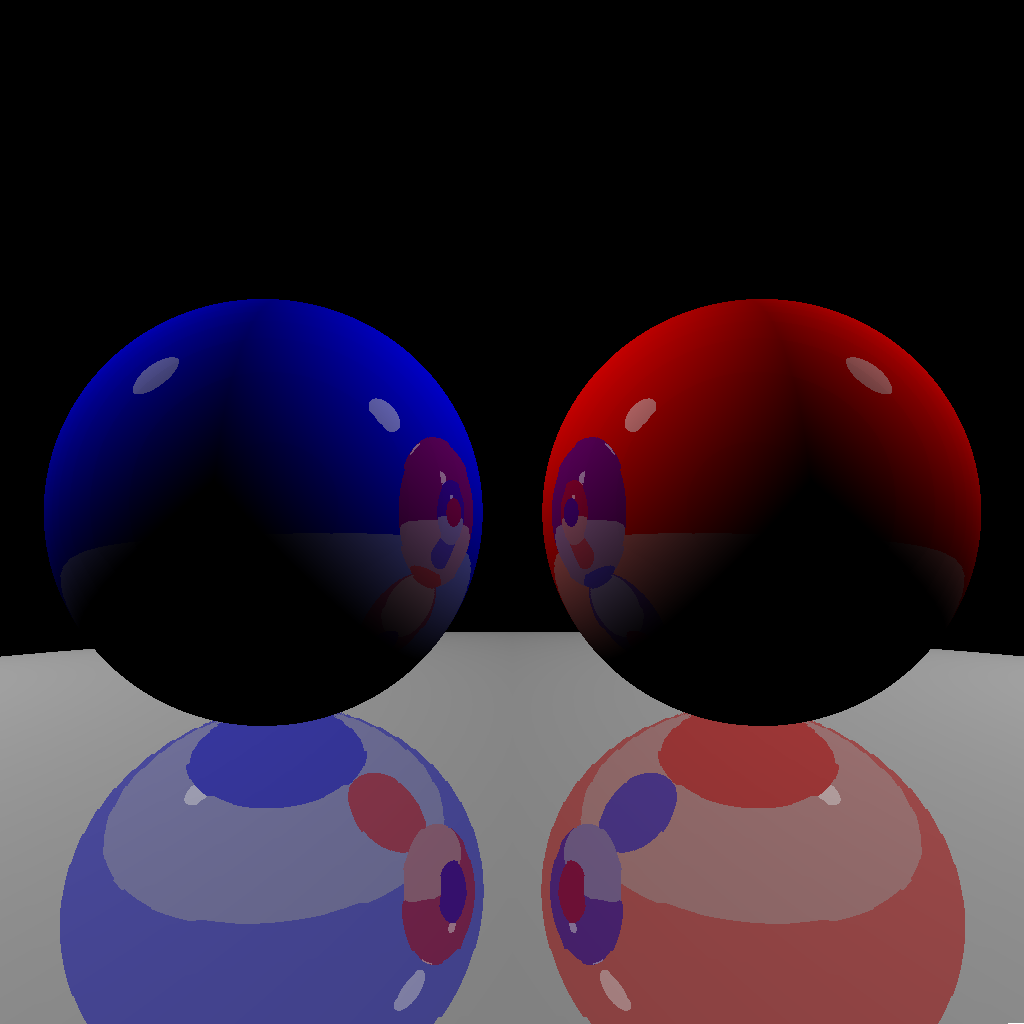
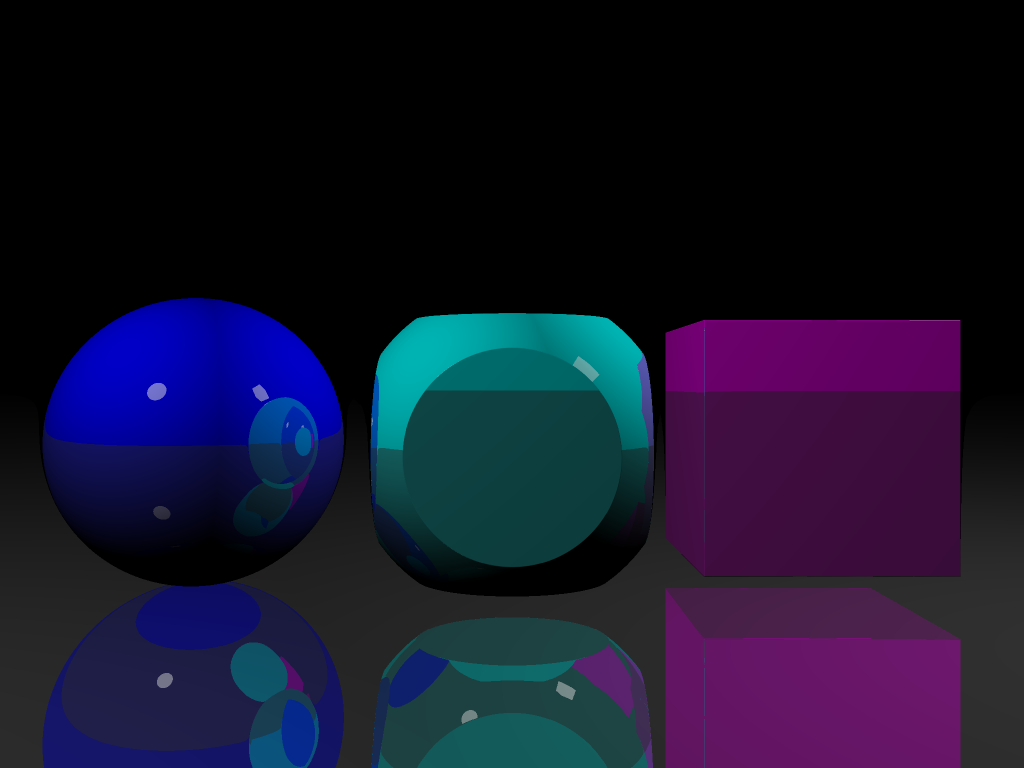
add plane

diff --git a/basicObjects.cpp b/basicObjects.cpp
@@ -113,16 +113,14 @@ void Object::AttachExternalColorBuffer(Vec3uc *buffer)
 	pColor=buffer;
 }
 
-double Object::GetDistance(Vec3d from)
+double Object::GetDistance(Vec3d from) const
 {
 	from=from-*Position;
 	return(from.Length());
 }
 
-/**
- * Using the gradient of the SDF, estimate the normal vector on the surface at given point
- */
-Vec3d Object::GetNormalVector(Vec3d point)
+// Using the gradient of the SDF, estimate the normal vector on the surface at given point
+Vec3d Object::GetNormalVector(Vec3d point) const
 {
 	Vec3d normalV(
 			GetDistance(Vec3d(point.X + RAY_COLLISION_THRESHOLD, point.Y, point.Z)) - GetDistance(Vec3d(point.X - RAY_COLLISION_THRESHOLD, point.Y, point.Z)),
@@ -132,7 +130,7 @@ Vec3d Object::GetNormalVector(Vec3d point)
 	return(normalV);
 }
 
-Vec3d Object::GetNormalVector(Vec3d *point)
+Vec3d Object::GetNormalVector(Vec3d *point) const
 {
 	Vec3d normalV(
 			GetDistance(Vec3d(point->X + RAY_COLLISION_THRESHOLD, point->Y, point->Z)) - GetDistance(Vec3d(point->X - RAY_COLLISION_THRESHOLD, point->Y, point->Z)),
@@ -162,15 +160,14 @@ Difference::Difference(Object *object_a, Object *object_b)
 	{
 		return;
 	}
-	Vec3f NewColor=(ObjectA->Color()+ObjectB->Color())/2.0;
-	SetColor(NewColor);
+	SetColor((ObjectA->Color()+ObjectB->Color())/2.0);
 }
 
-double Difference::GetDistance(Vec3d from)
+double Difference::GetDistance(Vec3d from) const
 {
 	double DistA=ObjectA->GetDistance(from);
 	double DistB=0.0-ObjectB->GetDistance(from);
-	return std::max(DistA, DistB);
+	return max(DistA, DistB);
 }
 
 Union::Union(Object *object_a, Object *object_b)
@@ -186,15 +183,14 @@ Union::Union(Object *object_a, Object *object_b)
 	{
 		return;
 	}
-	Vec3f NewColor=(ObjectA->Color()+ObjectB->Color())/2.0;
-	SetColor(NewColor);
+	SetColor((ObjectA->Color()+ObjectB->Color())/2.0);
 }
 
-double Union::GetDistance(Vec3d from)
+double Union::GetDistance(Vec3d from) const
 {
 	double DistA=ObjectA->GetDistance(from);
 	double DistB=ObjectB->GetDistance(from);
-	return std::min(DistA, DistB);
+	return min(DistA, DistB);
 }
 
 Intersection::Intersection(Object *object_a, Object *object_b)
@@ -210,15 +206,14 @@ Intersection::Intersection(Object *object_a, Object *object_b)
 	{
 		return;
 	}
-	Vec3f NewColor=(ObjectA->Color()+ObjectB->Color())/2.0;
-	SetColor(NewColor);
+	SetColor((ObjectA->Color()+ObjectB->Color())/2.0);
 }
 
-double Intersection::GetDistance(Vec3d from)
+double Intersection::GetDistance(Vec3d from) const
 {
 	double DistA=ObjectA->GetDistance(from);
 	double DistB=ObjectB->GetDistance(from);
-	return std::max(DistA, DistB);
+	return max(DistA, DistB);
 }
 
 // ========= RAY ===
@@ -395,9 +390,9 @@ void Sphere::SetRadius(double radius)
 	pRadius=radius;
 }
 
-double Sphere::GetDistance(Vec3d from)
+double Sphere::GetDistance(Vec3d from) const
 {
-	from=from-Position;
+	from=from-*Position;
 	return(from.Length()-pRadius);
 }
 
@@ -414,9 +409,9 @@ void Cube::SetLength(double length)
 	pLength=length;
 }
 
-double Cube::GetDistance(Vec3d from)
+double Cube::GetDistance(Vec3d from) const
 {
-	from=from-Position;
+	from=from-*Position;
 	Vec3d d=from.Abs() - Vec3d(pLength, pLength, pLength);
 	return d.Max(Vec3d(0, 0, 0)).Length() + min(max(d.X, max(d.Y, d.Z)), 0.0);
 }
@@ -440,9 +435,27 @@ void Torus::SetRadius2(double radius)
 	pRadius2=radius;
 }
 
-double Torus::GetDistance(Vec3d from)
+double Torus::GetDistance(Vec3d from) const
 {
-	from=from-Position;
+	from=from-*Position;
 	Vec2d d=Vec2d(Vec2d(from.X, from.Z).Length()-pRadius1, from.Y);
 	return(d.Length()-pRadius2);
+}
+
+Plane::Plane()
+{
+	pOrientation=Vec3d(0, -1, 0);
+	SetName("Plane");
+}
+
+void Plane::SetOrientation(Vec3d orientation)
+{
+	pOrientation=orientation;
+	pOrientation.Normalize();
+}
+
+double Plane::GetDistance(Vec3d from) const
+{
+	from=from-*Position;
+	return(from*pOrientation);
 }

diff --git a/main.cpp b/main.cpp
@@ -20,68 +20,69 @@ int main(int argc, char *argv[])
 
 	Sphere *NewSphere1=new Sphere();
 	NewSphere1->SetName("Small sphere 1");
-	NewSphere1->SetRadius(10);
+	NewSphere1->SetRadius(25);
 	NewSphere1->SetReflectivity(0.5);
-	NewSphere1->SetPosition(12, 0, 50);
+	NewSphere1->SetPosition(0, 10, 160);
 	NewSphere1->SetColor(200, 0, 0);
 
-	// Sphere *NewSphere2=new Sphere();
-	// NewSphere2->SetName("Small sphere 2");
-	// NewSphere2->SetRadius(10);
-	// NewSphere2->SetReflectivity(0.5);
-	// NewSphere2->SetPosition(-12, 0, 50);
-	// NewSphere2->SetColor(0, 0, 200);
+	Sphere *NewSphere2=new Sphere();
+	NewSphere2->SetName("Small sphere 2");
+	NewSphere2->SetRadius(25);
+	NewSphere2->SetReflectivity(0.5);
+	NewSphere2->SetPosition(-55, 10, 180);
+	NewSphere2->SetColor(0, 0, 200);
 
-	Cube *NewCube=new Cube();
-	NewCube->SetName("Cube");
-	NewCube->SetLength(8);
-	NewCube->SetReflectivity(0.5);
-	NewCube->SetPosition(-12, 0, 50);
-	NewCube->SetColor(0, 200, 200);
+	Cube *NewCube1=new Cube();
+	NewCube1->SetName("Cube 1");
+	NewCube1->SetLength(20);
+	NewCube1->SetReflectivity(0.5);
+	NewCube1->SetPosition(0, 10, 160);
+	NewCube1->SetColor(0, 180, 180);
 
-	Sphere *NewSphere3=new Sphere();
-	NewSphere3->SetName("Big sphere");
-	NewSphere3->SetRadius(700);
-	NewSphere3->SetReflectivity(0.5);
-	NewSphere3->SetPosition(0, 712, 50);
-	NewSphere3->SetColor(180, 180, 180);
+	Cube *NewCube2=new Cube();
+	NewCube2->SetName("Cube 2");
+	NewCube2->SetLength(20);
+	NewCube2->SetReflectivity(0.5);
+	NewCube2->SetPosition(50, 10, 180);
+	NewCube2->SetColor(180, 0, 180);
+
+	// Torus *NewTorus1=new Torus();
+	// NewTorus1->SetName("Torus 1");
+	// NewTorus1->SetPosition(0, 20, 120);
+	// NewTorus1->SetRadius1(40);
+	// NewTorus1->SetRadius2(10);
+	// NewTorus1->SetColor(180, 200, 80);
 
 	Sphere *NewLightSource1=new Sphere();
 	NewLightSource1->SetName("Spherical light source");
 	NewLightSource1->SetRadius(20);
-	NewLightSource1->SetPosition(-100, -100, 50);
+	NewLightSource1->SetPosition(-100, -100, 40);
 	NewLightSource1->SetBrightness(100);
 	NewLightSource1->SetColor(255, 255, 255);
 
 	Cube *NewLightSource2=new Cube();
 	NewLightSource2->SetName("Cubical light source");
 	NewLightSource2->SetLength(13);
-	NewLightSource2->SetPosition(100, -100, 0);
+	NewLightSource2->SetPosition(100, -100, 120);
 	NewLightSource2->SetBrightness(100);
 	NewLightSource2->SetColor(255, 255, 255);
 
-	// Intersection *ShpereIntersection=new Intersection(NewSphere1, NewSphere2);
+	Intersection *ShpereCubeIntersection=new Intersection(NewSphere1, NewCube1);
+	ShpereCubeIntersection->SetColor(0, 180, 180);
 
-	// NewScene->AddObject(ShpereIntersection);
-	NewScene->AddObject(NewSphere1);
-	// NewScene->AddObject(NewSphere2);
-	NewScene->AddObject(NewCube);
-	NewScene->AddObject(NewSphere3);
+	Plane *NewPlane=new Plane();
+	NewPlane->SetPosition(0, 35, 0);
+	NewPlane->SetColor(50, 50, 50);
+
+	NewScene->AddObject(ShpereCubeIntersection);
+	// NewScene->AddObject(NewSphere1);
+	NewScene->AddObject(NewSphere2);
+	// NewScene->AddObject(NewCube1);
+	NewScene->AddObject(NewCube2);
+	// NewScene->AddObject(NewTorus1);
 	NewScene->AddObject(NewLightSource1);
 	NewScene->AddObject(NewLightSource2);
-
-//	Cube *newCube1=new Cube();
-//	newCube1->SetPosition(-30, 30, 120);
-//	newCube1->SetLength(15);
-//	newCube1->SetColor(100, 200, 100);
-//	MainScene->AddObject(newCube1);
-
-//	Torus *newTorus1=new Torus();
-//	newTorus1->SetPosition(0, 30, 140);
-//	newTorus1->SetRadius1(40);
-//	newTorus1->SetRadius2(10);
-//	newTorus1->SetColor(180, 200, 80);
-//	MainScene->AddObject(newTorus1);
+	NewScene->AddObject(NewPlane);
 
 //	Object *testObj=new Object;
 //	testObj->SetPosition(100, 0, 50);

diff --git a/basicObjects.hpp b/basicObjects.hpp
@@ -7,7 +7,7 @@
 
 #define RAY_STEPS_MAX			1024
 #define RAY_COLLISIONS_MAX		4
-#define RAY_COLLISION_THRESHOLD	0.25
+#define RAY_COLLISION_THRESHOLD	1.0F/16.0F
 
 #define DEFAULT_OBJECT_COLOR	0x00,0x00,0x00
 #define DEFAULT_OBJECT_NAME		"Object"
@@ -43,23 +43,21 @@ public:
 	void SetName(string name);
 
 	void AttachExternalColorBuffer(Vec3uc *buffer);
-	virtual double GetDistance(Vec3d from);
-	Vec3d GetNormalVector(Vec3d point);
-	Vec3d GetNormalVector(Vec3d *point);
+	virtual double GetDistance(Vec3d from) const;
+	Vec3d GetNormalVector(Vec3d point) const;
+	Vec3d GetNormalVector(Vec3d *point) const;
 	bool ItsALightSource();
 
 	vector <Object *> *SceneObjects, *SceneLights;
 	Vec3d *Position;
 };
 
-// ========= CSG ===
-
 class Difference : public Object
 {
 	Object *ObjectA, *ObjectB;
 public:
 	Difference(Object *object_a, Object *object_b);
-	double GetDistance(Vec3d from);
+	double GetDistance(Vec3d from) const;
 };
 
 class Union : public Object
@@ -67,7 +65,7 @@ class Union : public Object
 	Object *ObjectA, *ObjectB;
 public:
 	Union(Object *object_a, Object *object_b);
-	double GetDistance(Vec3d from);
+	double GetDistance(Vec3d from) const;
 };
 
 class Intersection : public Object
@@ -75,10 +73,8 @@ class Intersection : public Object
 	Object *ObjectA, *ObjectB;
 public:
 	Intersection(Object *object_a, Object *object_b);
-	double GetDistance(Vec3d from);
+	double GetDistance(Vec3d from) const;
 };
-
-// ========= RAY ===
 
 class Ray : public Object
 {
@@ -96,18 +92,14 @@ public:
 	Object *RunOnce();
 };
 
-// ========= SPHERE ===
-
 class Sphere : public Object
 {
 	double pRadius;
 public:
 	Sphere();
 	void SetRadius(double radius);
-	double GetDistance(Vec3d from);
+	double GetDistance(Vec3d from) const;
 };
-
-// ========= CUBE ===
 
 class Cube : public Object
 {
@@ -115,10 +107,8 @@ class Cube : public Object
 public:
 	Cube();
 	void SetLength(double length);
-	double GetDistance(Vec3d from);
+	double GetDistance(Vec3d from) const;
 };
-
-// ========= TORUS ===
 
 class Torus : public Object
 {
@@ -127,7 +117,16 @@ public:
 	Torus();
 	void SetRadius1(double radius);
 	void SetRadius2(double radius);
-	double GetDistance(Vec3d from);
+	double GetDistance(Vec3d from) const;
+};
+
+class Plane : public Object
+{
+	Vec3d pOrientation;
+public:
+	Plane();
+	void SetOrientation(Vec3d orientation);
+	double GetDistance(Vec3d from) const;
 };
 
 #endif // BASICOBJECTS_HPP

diff --git a/commonVectorFun.cpp b/commonVectorFun.cpp
@@ -357,7 +357,6 @@ Vec3f Vec3f::operator/(float m)
 	return res;
 }
 
-
 //=== Vec3 uchar
 
 Vec3uc::Vec3uc()
